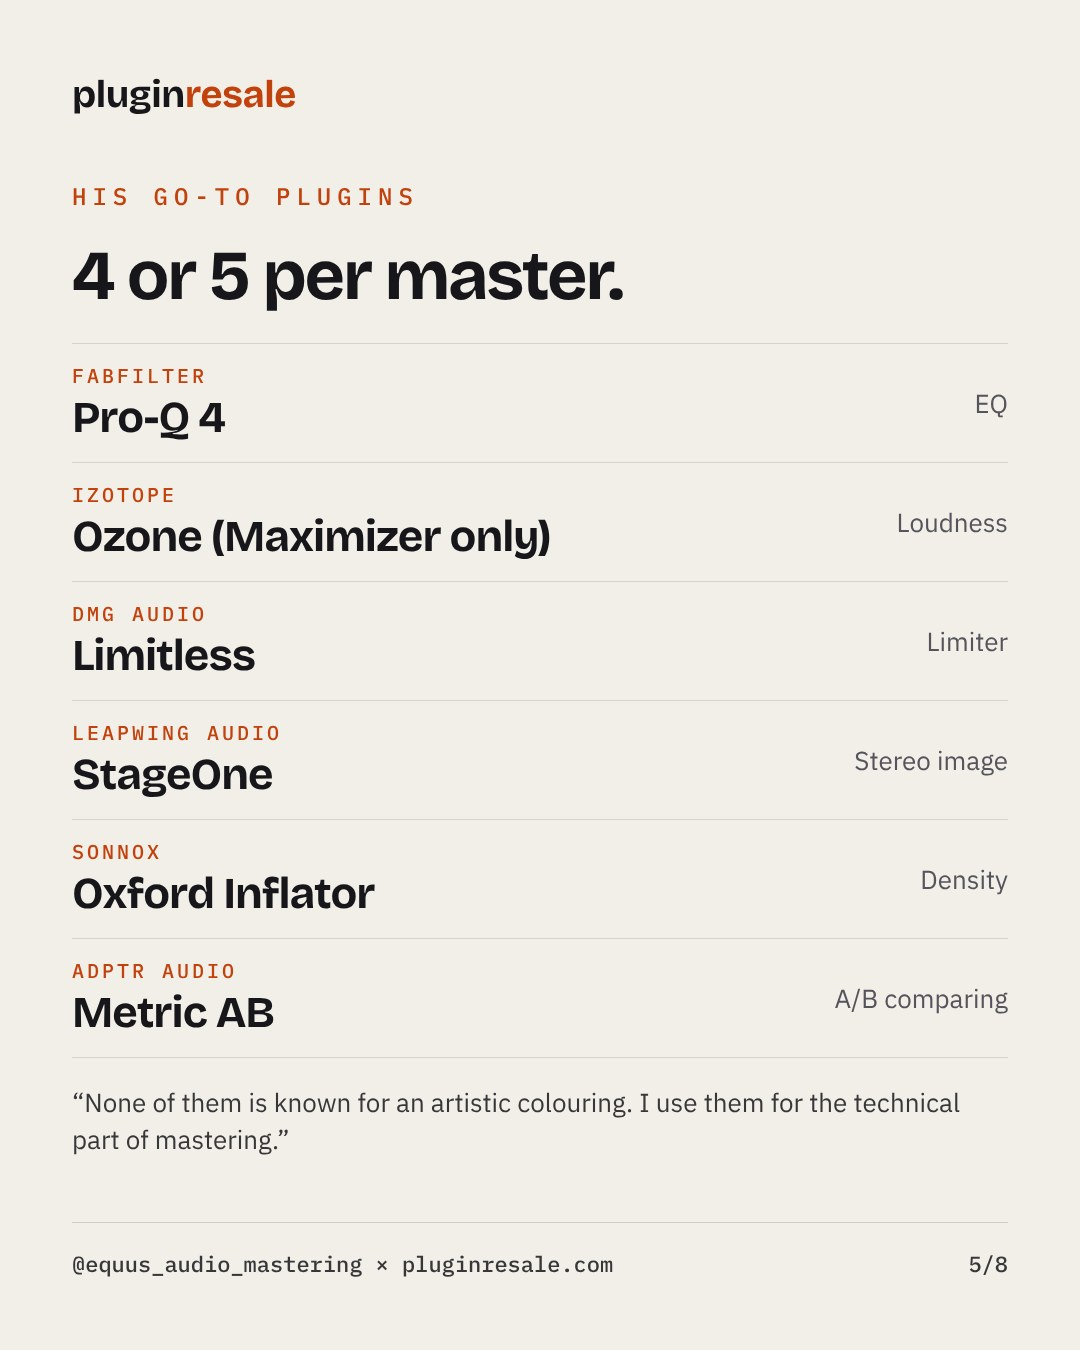
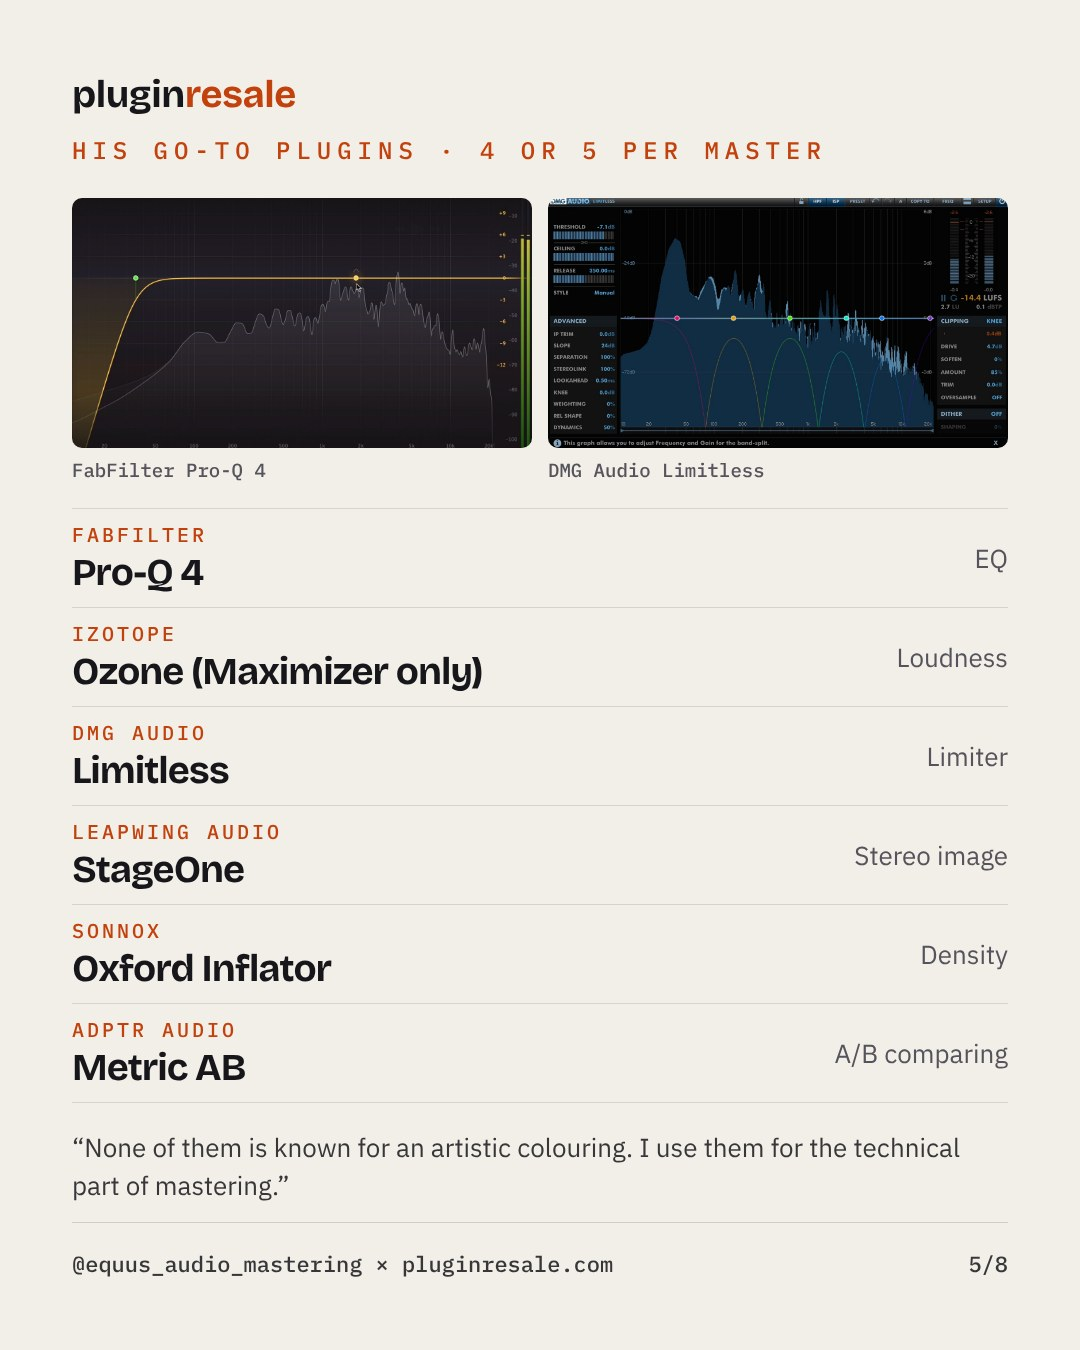
Pieter De Wagter interview: Pro-Q 4 and Limitless screenshots (article + slide 5)
Claude-Session: https://claude.ai/code/session_01TmWACNXtNrjDU6b4hFww62

diff --git a/content/blog/_pieter-de-wagter-interview.md b/content/blog/_pieter-de-wagter-interview.md
@@ -110,6 +110,16 @@ My go-to plugins are [FabFilter Pro-Q 4](/developers/fabfilter/pro-q-4), [iZotop
 
 I use them for the more technical part of mastering. Usually on the master bus, but sometimes already on the original mix, before it goes through the analog gear.
 
+<figure>
+  <img src="/blog/pieter-de-wagter-interview/pro-q-4.jpg" alt="FabFilter Pro-Q 4 interface: a high-pass filter and one band on a flat curve over a spectrum analyzer" width="1300" height="782" loading="lazy">
+  <figcaption>FabFilter Pro-Q 4, his EQ for the technical fixes.</figcaption>
+</figure>
+
+<figure>
+  <img src="/blog/pieter-de-wagter-interview/limitless.jpg" alt="DMG Audio Limitless interface: threshold, ceiling and release settings on the left, a multiband spectrum in the middle and loudness meters on the right" width="1600" height="886" loading="lazy">
+  <figcaption>DMG Audio Limitless, one of his three limiters.</figcaption>
+</figure>
+
 ### Is there any piece of gear or software you bought and almost never used?
 
 I'm not going to name analog gear I bought and never used because it wasn't good enough. But I have a few units that are a bit of a luxury, because they are expensive and I don't use them on every project:
